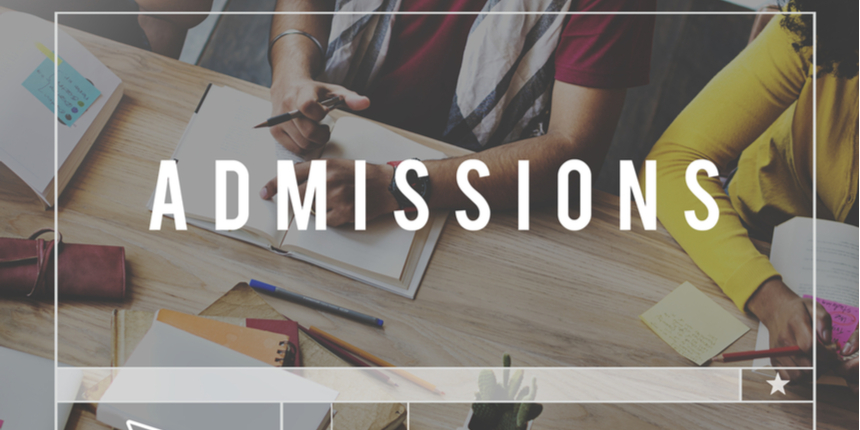
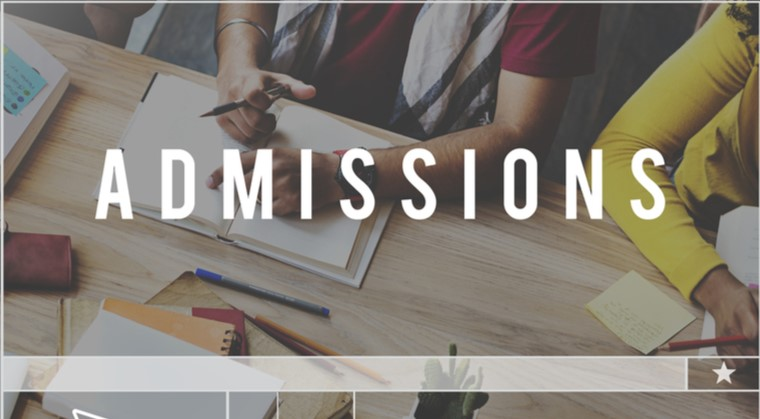
Basic Sign-in page completed

diff --git a/templates/AdmissionPredictor/getData.html b/templates/AdmissionPredictor/getData.html
@@ -2,22 +2,65 @@
 
 {% block head %}
 <link rel="stylesheet" href="/static/getData.css">
-
+<link href="https://fonts.googleapis.com/icon?family=Material+Icons" rel="stylesheet">
 {% endblock head %}
 
 {% block title %}
-
+Login
 {% endblock title %}
 
 {% block body %}
-<form action="/admission/predict/" method="post">
-    <div class="form" id="first-input">
-        <input type="text" name="input" id="input" class="form-input" placeholder=" ">
-        <label for="input" class="form-label">Input</label>
+<form action="/admission/predict/" method="post" enctype="multipart/form-data" id="main-form">
+    <div class="form">
+        <label for="username">
+            <h2 id="login-h2">Admission Predictor</h2>
+        </label>
+    </div>
+    {% csrf_token %}
+    <div class="form">
+        <input type="text" name="username" id="username" class="form-input" placeholder=" ">
+        <label for="username" class="form-label">Name</label>
+    </div>
+    <div class="form">
+        <input type="text" name="username" id="username" class="form-input" placeholder=" ">
+        <label for="username" class="form-label">Category<star>*</star></label>
+    </div>
+    <div class="form">
+        <input type="text" name="username" id="username" class="form-input" placeholder=" ">
+        <label for="username" class="form-label">State<star>*</star></label>
+    </div>
+    <div class="form">
+        <input type="text" name="username" id="username" class="form-input" placeholder=" ">
+        <label for="username" class="form-label">Gender<star>*</star></label>
+    </div>
+    <div class="form">
+        <input type="text" name="username" id="username" class="form-input" placeholder=" ">
+        <label for="username" class="form-label">Branch<star>*</star></label>
+    </div>
+    <div class="form">
+        <input type="text" name="username" id="username" class="form-input" placeholder=" ">
+        <label for="username" class="form-label">12th Score<star>*</star></label>
+    </div>
+    {% comment %} <div class="form">
+        <input type="password" name="password" id="password" class="form-input" placeholder=" ">
+        <label for="password" id="password-label" class="form-label">Password</label>
+    </div> {% endcomment %}
+    {% comment %} <div class="form">
+        <input type="file" name="file" id="file-input" class="form-input" accept=".csv">
+        <label for="file-input" class="form-label" id="icon-label">
+            <span class="material-icons" id="file-icon">
+                description
+            </span>
+            <span id="file-label">File</span>
+            <span id="file-name">File Name</span>
+        </label>
+    </div> {% endcomment %}
+    <div class="form" id="submit-div">
+        <button type="submit" id="submit-btn">Submit</button>
     </div>
 </form>
+<script src="/static/getData.js"></script>
 {% endblock body %}
 
 {% block script %}
-
 {% endblock script %}

diff --git a/static/getData.css b/static/getData.css
@@ -1,11 +1,22 @@
-#first-input {
-    margin-top: 100px;
+#main-form {
+    backdrop-filter: blur(5px);
+    margin: 100px 200px;
+    box-shadow: 0px 3px 10px rgb(0 0 0 / 80%);
+    position: sticky;
+    top: 150px;
+}
+
+#login-h2 {
+    font-family: Roboto, sans-serif;
+    color: aliceblue;
+    font-weight: 100;
+    margin-top: 57px;
 }
 
 .form {
     display: grid;
     place-items: center;
-    margin: 23px 0;
+    margin: 15px 0;
 }
 
 .form-input {
@@ -19,18 +30,19 @@
     font-size: 18px;
     padding: 4px 10px;
     position: relative;
-    left: 2rem;
+    left: 0rem;
     top: 0rem;
-    transition: left .3s, margin-bottom .3s;
+    transition: left 0.3s, margin-bottom 0.3s;
 }
 
 .form-label {
     position: relative;
-    left: -5.3rem;
+    left: -6.4rem;
     top: -1.5rem;
-    color: aliceblue;
+    color: rgba(240, 248, 255, 0.7);
     font-family: Roboto, sans-serif;
-    transition: left 1s, top 0.3s, font-size .3s;
+    transition: left 1s, top 0.3s, font-size 0.3s, color 0.3s;
+    cursor: text;
 }
 
 .form-input:focus {
@@ -44,8 +56,84 @@
 
 .form-input:focus + .form-label,
 .form-input:not(:placeholder-shown).form-input:not(:focus) ~ .form-label {
-    left: -6rem;
+    left: -7.5rem !important;
     top: -3.2rem;
     font-size: 10px;
-    
+    color: aliceblue;
+}
+
+input[type="file"] {
+    display: none;
+}
+
+
+#icon-label {
+    color: aliceblue;
+    background-color: rgba(145, 131, 122, 0.7);
+    outline: none;
+    width: 280px;
+    height: 21px;
+    left: 0rem !important;
+    top: 0rem !important;
+    border: 2px solid rgba(240, 248, 255, 0.8);
+    border-radius: 5px;
+    font-size: 17px;
+    padding: 4px 10px;
+    padding-top: 6px !important;
+    cursor: pointer;
+    transition: font-size 0.3s;
+}
+
+#icon-label:hover {
+    border-color: rgb(91 72 65);
+}
+
+#file-icon {
+    display: inline;
+    font-size: 17px;
+    transition: font-size 0.3s;
+    cursor: pointer;
+}
+
+#file-label {
+    position: relative;
+    top: -0.1rem;
+    transition: font-size 0.3s, top 0.3s, left 1s;
+}
+
+#file-name {
+    position: relative;
+    top: -0.1rem;
+    left: -2rem;
+    display: none;
+    transition: display 0.3s, left 0.3s;
+}
+
+#submit-div {
+    margin-top: 37px;
+}
+
+#submit-btn {
+    position: relative;
+    width: 107px;
+    height: 36px;
+    padding-top: 4px;
+    margin-bottom: 76px;
+    font-size: 17px;
+    font-family: Roboto, sans-serif;
+    color: aliceblue;
+    background-color: rgba(145, 131, 122, 0.7);
+    border: 2px solid aliceblue;
+    border-radius: 5px;
+    cursor: pointer;
+    transition: font-size 0.3s;
+}
+
+#submit-btn:hover {
+    border-color: rgb(91 72 65);
+    font-size: 18px;
+}
+
+star{
+    color: red !important;
 }

diff --git a/templates/baseGetData.html b/templates/baseGetData.html
@@ -33,9 +33,9 @@
                 <a href="/index"><img src="/static/images/logo.png" alt="Logo" class="logoimg"></a>
             </div>
             <div id="footersocials">
-                <div><a href="facebook.com"><img src="https://facebook.com/images/fb_icon_325x325.png" alt="Facebook" class="socialsimg"></a></div>
-                <div><a href="instagram.com"><img src="https://instagram.com/static/images/ico/favicon-192.png/68d99ba29cc8.png" alt="Instagram" class="socialsimg"></a></div>
-                <div><a href="twitter.com"><img src="https://abs.twimg.com/favicons/twitter.2.ico" alt="Twitter" class="socialsimg"></a></div>
+                <div><a href="https://facebook.com"><img src="https://facebook.com/images/fb_icon_325x325.png" alt="Facebook" class="socialsimg"></a></div>
+                <div><a href="https://instagram.com"><img src="https://instagram.com/static/images/ico/favicon-192.png/68d99ba29cc8.png" alt="Instagram" class="socialsimg"></a></div>
+                <div><a href="https://twitter.com"><img src="https://abs.twimg.com/favicons/twitter.2.ico" alt="Twitter" class="socialsimg"></a></div>
             </div>
             <div id="footercopyright">
                 Company Name. <strong>All Rights Reserved</strong>

diff --git a/static/getData.js b/static/getData.js
@@ -1,0 +1,14 @@
+let inputFile = document.getElementById("file-input");
+let fileLabel = document.getElementById("file-label");
+let fileName = document.getElementById("file-name");
+
+inputFile.addEventListener("change", function (event) {
+    fileLabel.style.top = "-1.8rem";
+    fileLabel.style.left = "-1rem";
+    fileLabel.style.fontSize = "10px";
+    fileLabel.style.color = "rgb(91 72 65)";
+
+    fileName.style.display = "inline";
+    fileName.style.left = "-1rem";
+    fileName.textContent = event.target.files[0].name;
+})

diff --git a/static/base.css b/static/base.css
@@ -3,10 +3,10 @@
 
 body {
     margin: 0%;
-    background: url("../static/images/admission-background.jpg");
-    background-size: 1550px;
+    background: url("../static/images/admission-background.png");
+    background-size: 99.1vw;
     background-repeat: no-repeat;
-    background-position: center;
+    background-position: top;
     height: 700px;
 }
 
@@ -67,8 +67,7 @@ nav div a {
 }
 
 nav div a:hover {
-    color: #9a938d;
-    /* border: 1px solid #cdd7e9; */
+    color: rgb(91 72 65);
 }
 
 .downarrowimg {
